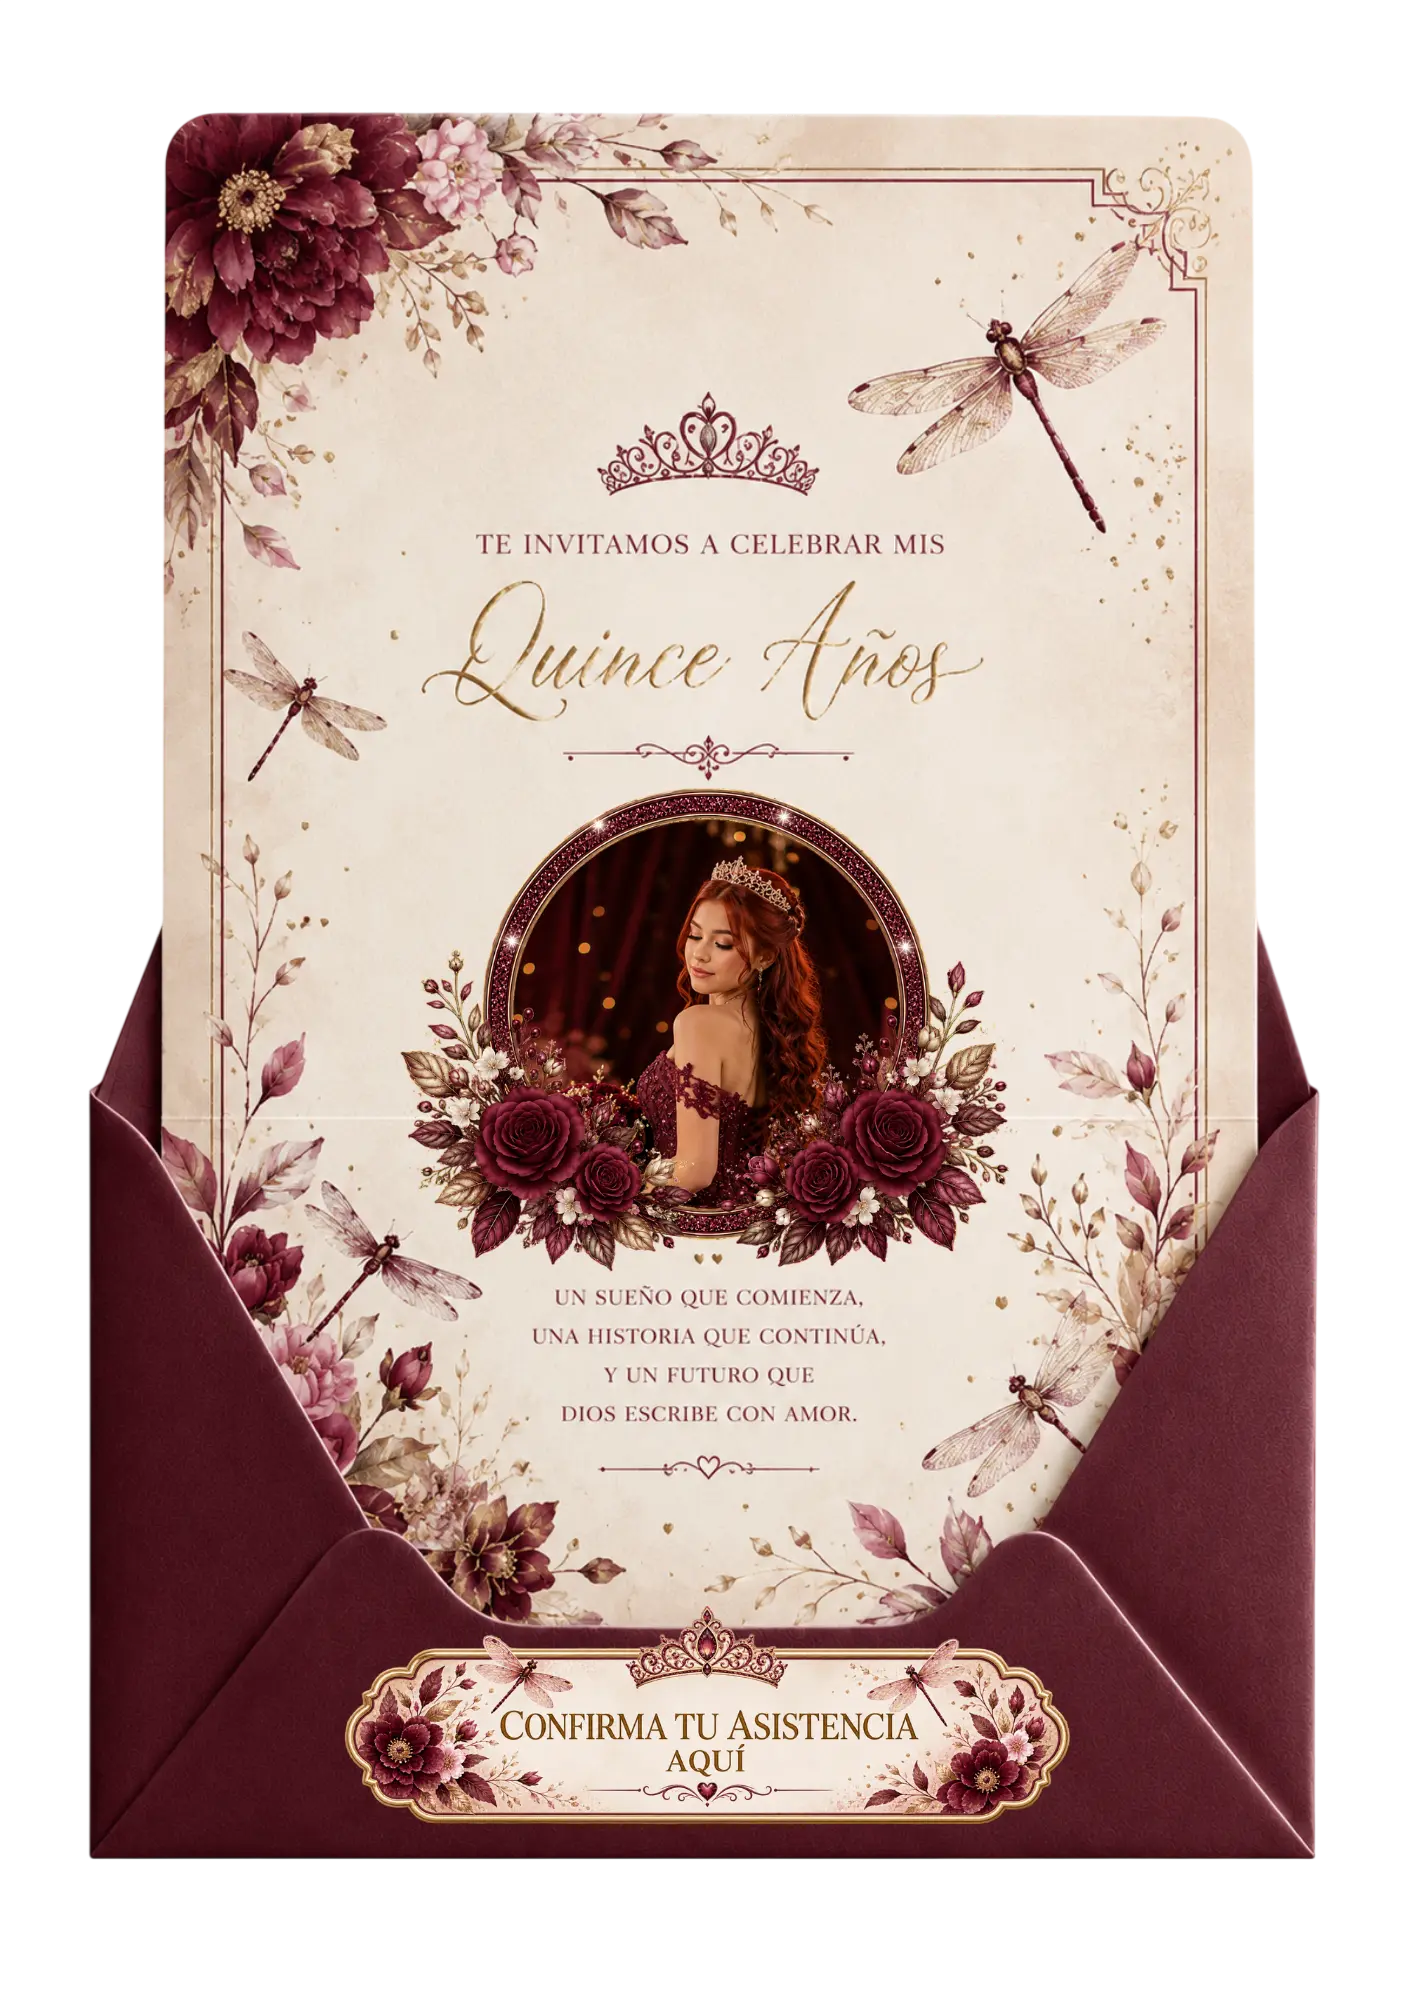
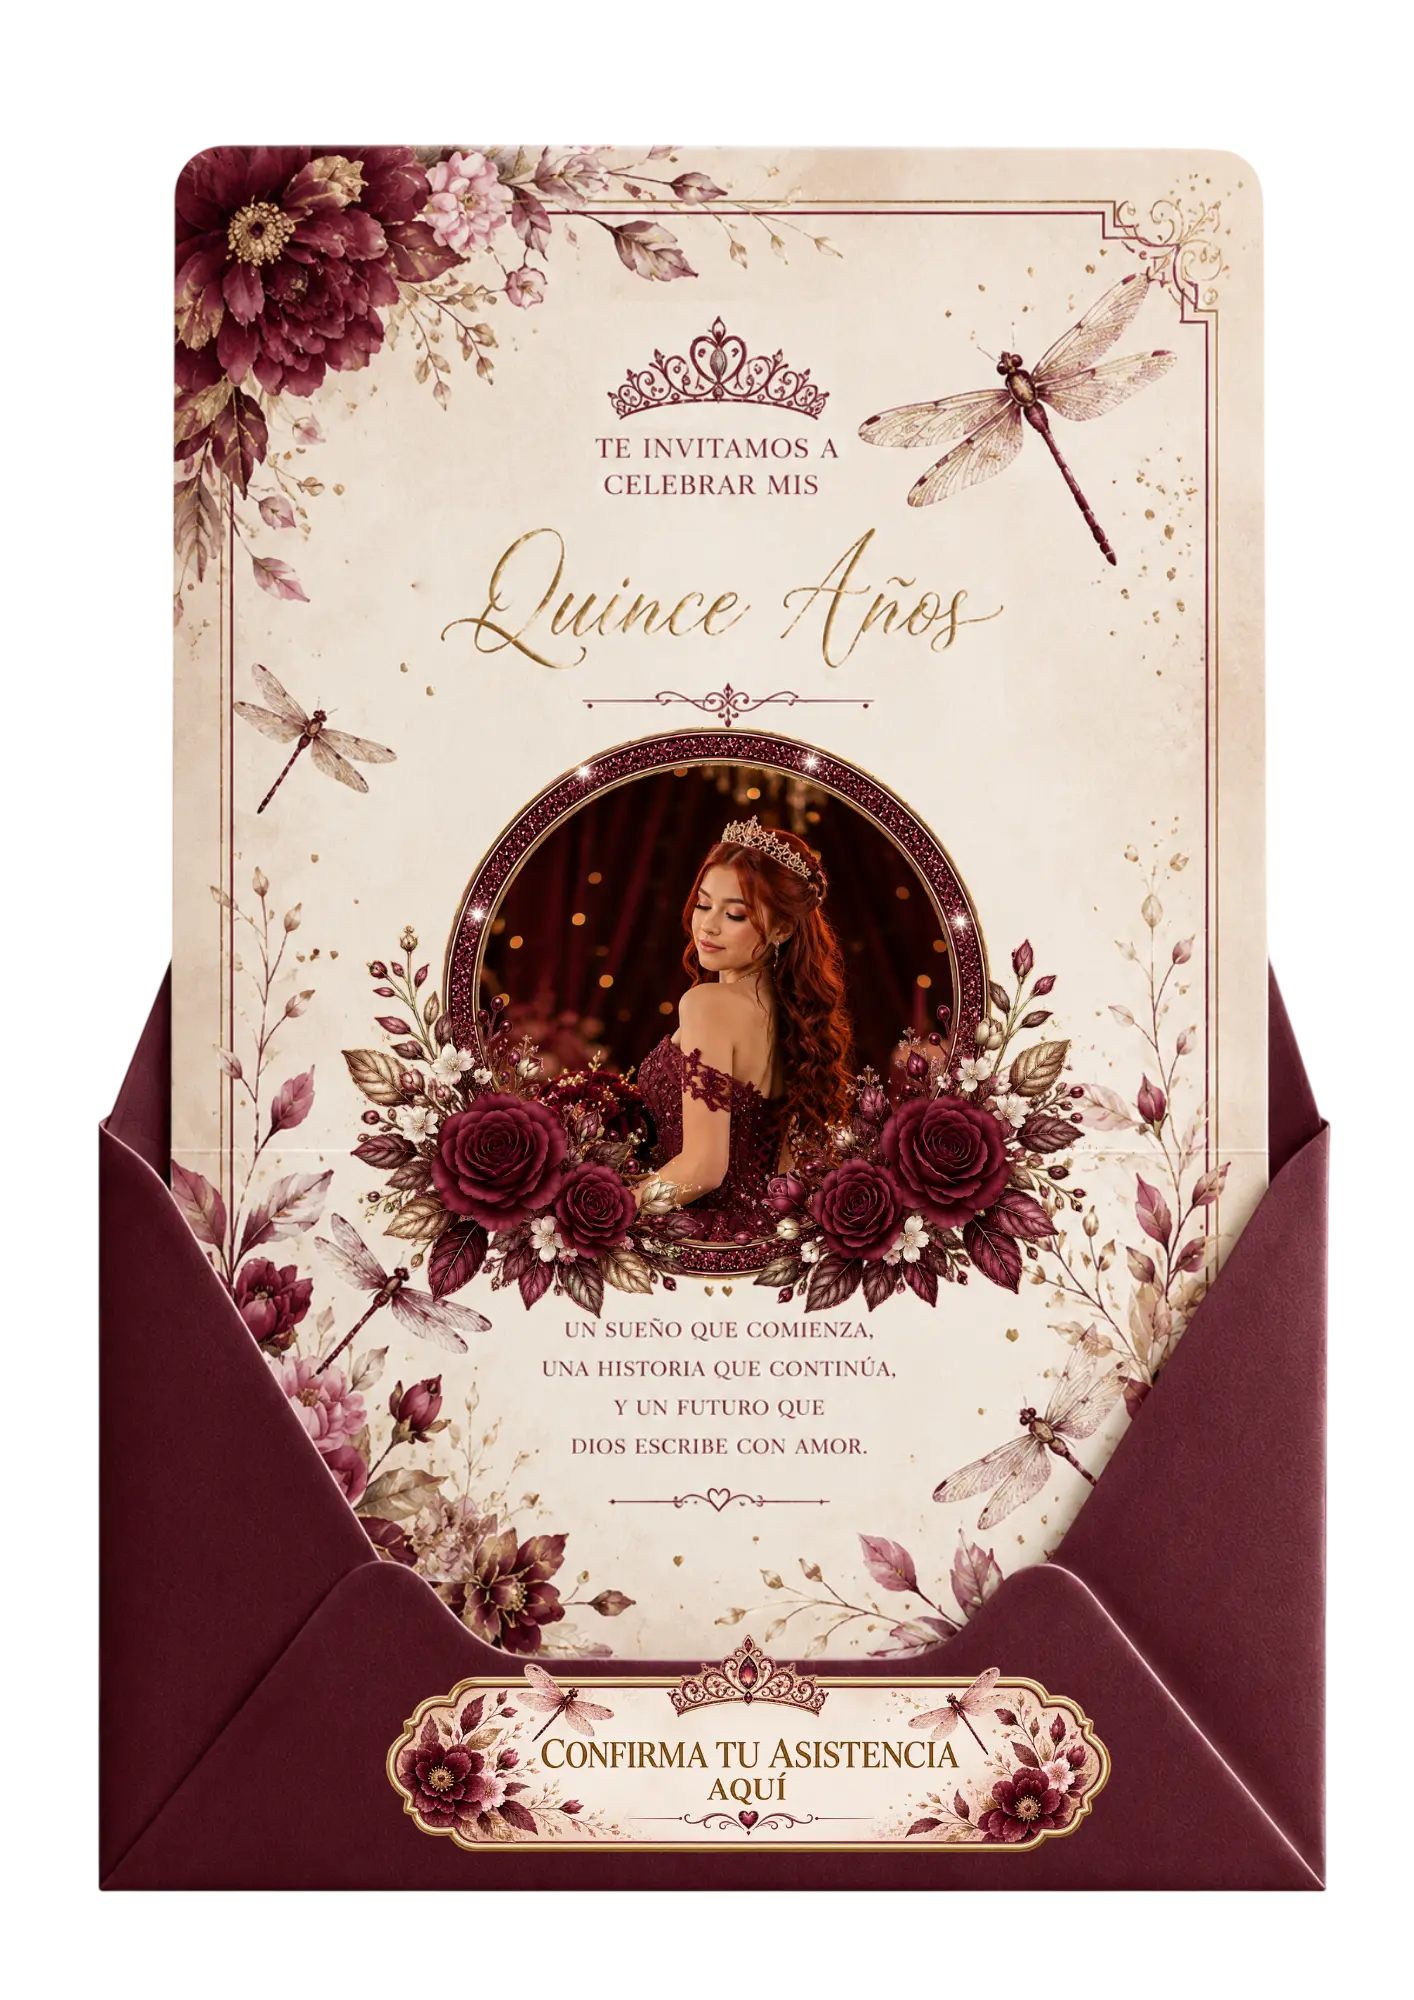
cggh

diff --git a/src/data/colombia.ts b/src/data/colombia.ts
@@ -46,6 +46,22 @@ export const colombiaInvitations: Invitation[] = [
     closedImage: "/Golden Dreams close.webp",
     openImage: "/Golden Dreams open.webp",
   },
+  {
+    title: "Blue Serenity",
+    category: "Quince Años",
+    country: "co",
+    price: "$49",
+    closedImage: "/Blue Serenity close.webp",
+    openImage: "/Blue Serenity open.webp",
+  },
+   {
+    title: "Ivory Bloom",
+    category: "Quince Años",
+    country: "co",
+    price: "$49",
+    closedImage: "/Ivory Bloom close.webp",
+    openImage: "/Ivory Bloom open.webp",
+  },
   
   {
     title: "Unicorn Party",
